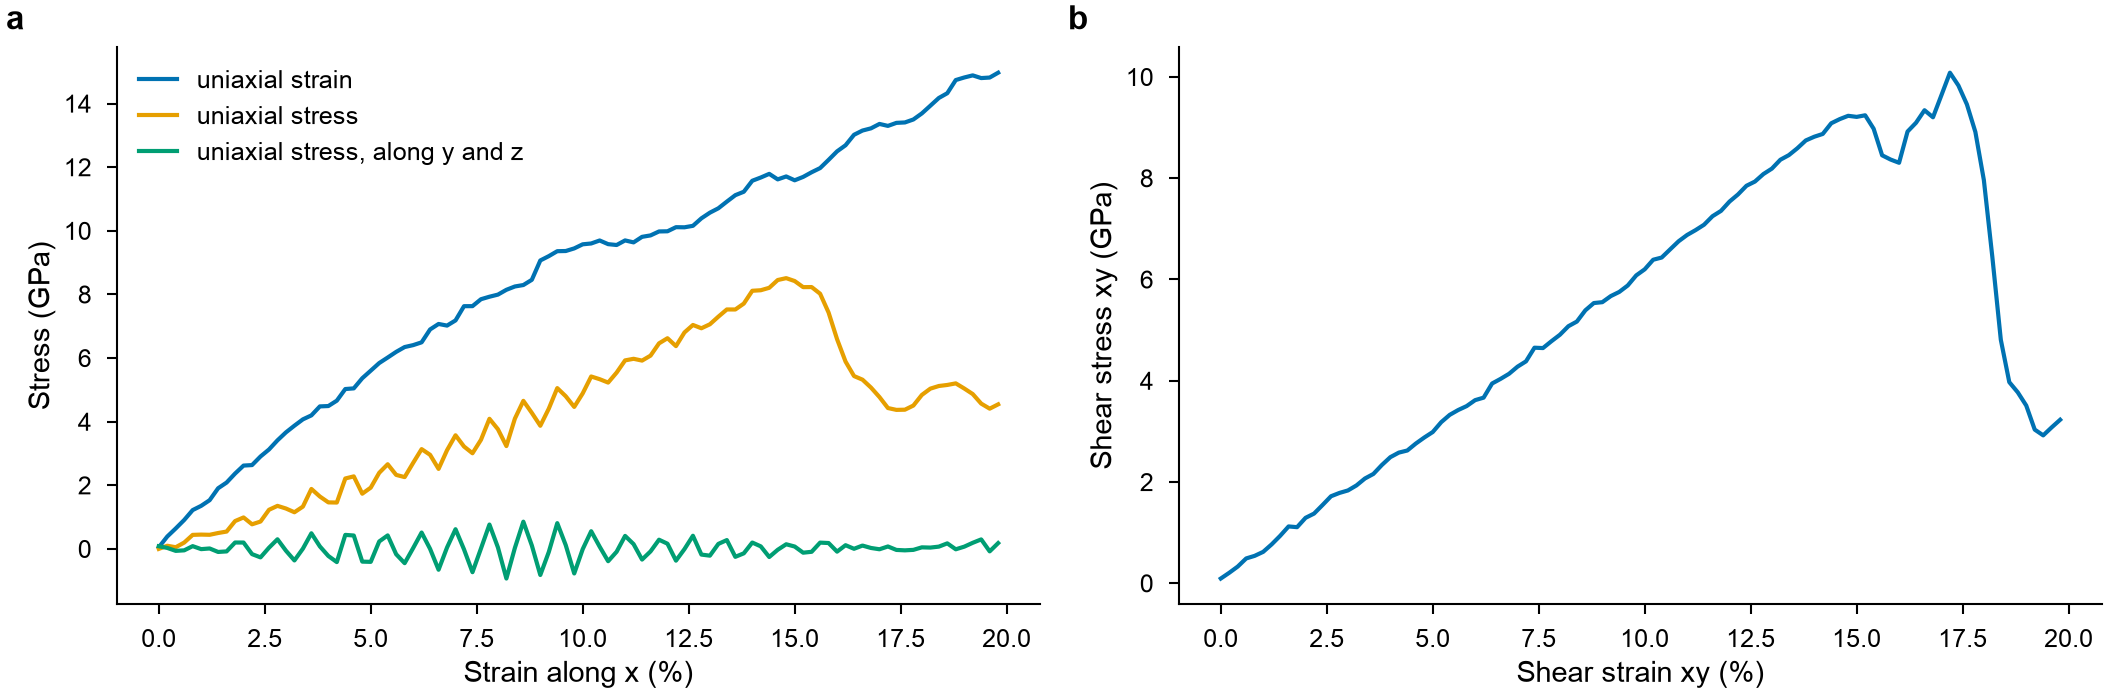
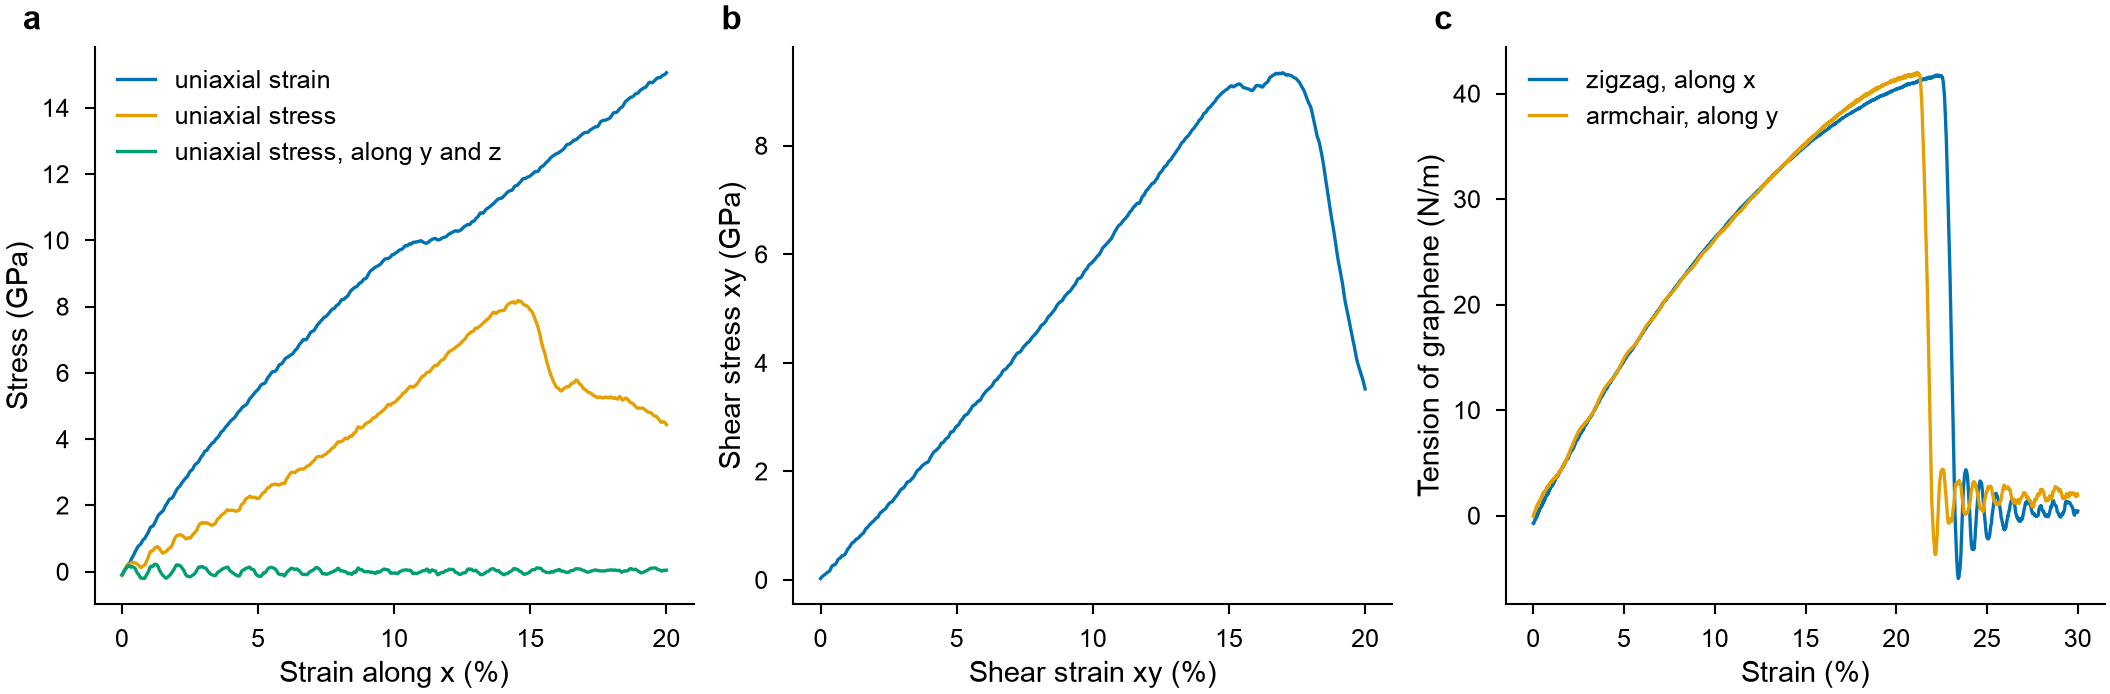
Deformation: copper of 6912 atoms with its raw stresses, and graphene pulled along zigzag and armchair with the NEP model of carbon

diff --git a/docs/user-guide/simulation/deformation.md b/docs/user-guide/simulation/deformation.md
@@ -12,6 +12,7 @@ with its sides held (uniaxial strain), once with them free under zero stress, a
 barostat on y and z (uniaxial stress), and sheared in the xy plane at the same
 rate:
 
+<!-- skip-test -->
 ```python
 import numpy as np
 
@@ -20,7 +21,7 @@ from mdapy.calculators import EAM
 from mdapy.simulation import MolecularDynamics
 from mdapy.simulation.controls import Deform
 
-crystal = build_crystal("fcc", 3.615, elements="Cu", repeat=(6, 6, 6))
+crystal = build_crystal("fcc", 3.615, elements="Cu", repeat=(12, 12, 12))  # 6912 atoms
 copper = EAM.zhou(["Cu"])
 rate = 0.02  # 1/ps
 
@@ -34,59 +35,116 @@ runs = {
     },
     "shear": {"ensemble": "nvt", "controls": Deform(xy=rate)},
 }
+with MolecularDynamics(crystal, copper, timestep=0.002) as md:
+    md.velocities(300, seed=1)
+    md.run(2500, ensemble="npt", temperature=300, pressure=0.0, barostat="aniso")
+    warm = md.system  # at 300 K and no pressure, with its velocities
+
 curves = {}
 for name, options in runs.items():
-    with MolecularDynamics(crystal, copper, timestep=0.002) as md:
-        md.velocities(300, seed=1)
-        md.run(2500, ensemble="npt", temperature=300, pressure=0.0, barostat="aniso")
-        start = len(md.thermo)
-        md.run(5000, temperature=300, thermo=50, **options)
-        pulled = md.thermo[start:]
+    with MolecularDynamics(warm, copper, timestep=0.002) as md:
+        md.run(5000, temperature=300, thermo=10, **options)
+        pulled = md.thermo  # every 10 steps from the start of the run
     time = pulled["time"].to_numpy() - pulled["time"][0]
     curves[name] = (rate * time, np.stack(pulled["stress"].to_numpy()))
+```
+
+Graphene, a sheet, stretched along x, a zigzag direction of its rings, and along
+y, an armchair one, with the other held, at the same rate to 30 %, with the
+[NEP model of carbon](../../examples/graphene-polycrystal.md#the-boundaries-settle)
+of the graphene polycrystal: download [`nep.txt`](../../examples/carbon/nep.txt)
+into the working directory.
+
+<!-- files: ../../examples/carbon -->
+
+<!-- skip-test -->
+```python
+import mdapy
+from mdapy.calculators import NEP
+from mdapy.transform import orthogonal_cell, replicate
+
+carbon = NEP("nep.txt")
+cell = orthogonal_cell(build_crystal("graphene", 2.46, c=20.0, elements="C"))
+sheet = replicate(cell, (20, 12, 1))  # 960 atoms, 4.9 nm by 5.1 nm
+sheet = sheet.with_box(mdapy.Box(sheet.box.matrix, pbc=(True, True, False)))
+with MolecularDynamics(sheet, carbon, timestep=0.0005) as md:
+    md.velocities(300, seed=1)
+    md.run(10000, ensemble="npt", temperature=300, pressure=0.0, barostat="xy")
+    flat = md.system
+
+pulls = {}
+for name, deform in (
+    ("zigzag, along x", Deform(xx=rate)),
+    ("armchair, along y", Deform(yy=rate)),
+):
+    with MolecularDynamics(flat, carbon, timestep=0.0005) as md:
+        md.run(30000, ensemble="nvt", temperature=300, thermo=20, controls=deform)
+        pulled = md.thermo
+    time = pulled["time"].to_numpy() - pulled["time"][0]
+    # the tension of the sheet, in N/m, from the stress over the box with its
+    # vacuum, 20 Å high
+    tension = np.stack(pulled["stress"].to_numpy())[:, :2] * flat.box.matrix[2, 2] / 10
+    pulls[name] = (rate * time, tension)
 ```
 
 The strain is the rate times the time since the run began: each length grows by
 the rate times its length at the start every ps, and the tilt xy by the rate
 times the length along y. `stress` of `thermo` is in the order xx, yy, zz, yz,
-xz, xy, positive under tension:
+xz, xy, positive under tension; that of a sheet is over the volume of its box,
+[as LAMMPS has it](../properties/sheets.md#molecular-dynamics). Every point is the
+stress at one step, every 10 steps for copper and 20 for graphene:
 
+<!-- skip-test -->
 ```python
 from mdapy.visualization import plot
 
 with plot.style():
-    fig, (a, b) = plot.figure("double", 60, nrows=1, ncols=2)
+    fig, (a, b, c) = plot.figure("double", 60, nrows=1, ncols=3)
     for name in ("uniaxial strain", "uniaxial stress"):
         strain, stress = curves[name]
-        a.plot(strain * 100, stress[:, 0], label=name)
+        a.plot(strain * 100, stress[:, 0], label=name, lw=0.8)
     strain, stress = curves["uniaxial stress"]
     a.plot(
         strain * 100,
         stress[:, 1:3].mean(axis=1),
         label="uniaxial stress, along y and z",
+        lw=0.8,
     )
     a.set(xlabel="Strain along x (%)", ylabel="Stress (GPa)")
     a.legend()
     strain, stress = curves["shear"]
-    b.plot(strain * 100, stress[:, 5])
+    b.plot(strain * 100, stress[:, 5], lw=0.8)
     b.set(xlabel="Shear strain xy (%)", ylabel="Shear stress xy (GPa)")
-    for ax, label in zip((a, b), "ab"):
+    for (name, (strain, tension)), k in zip(pulls.items(), (0, 1)):
+        c.plot(strain * 100, tension[:, k], label=name, lw=0.8)
+    c.set(xlabel="Strain (%)", ylabel="Tension of graphene (N/m)")
+    c.legend()
+    for ax, label in zip((a, b, c), "abc"):
         plot.panel_label(ax, label)
     plot.save(fig, "images/deformation", formats=("png",))
 ```
 
-![Stress against strain of copper stretched along x with its sides held or free, and sheared in the xy plane](images/deformation.png)
+![Stress against strain of copper stretched along x with its sides held or free and sheared in the xy plane, and of graphene stretched along a zigzag and an armchair direction](images/deformation.png)
 
-*a: With its sides held, the stress along x rises by about 130 GPa per unit
-strain over the first percent, below C11 = 168.6 GPa of this potential at 0 K,
-as heat and the strain soften the crystal; the sides pull too, 13.5 GPa at
-20 %, and the crystal holds to the end. With its sides free, the stress rises by
-about 50 GPa per unit strain, against the Young's modulus along [100] of
-66.7 GPa at 0 K, to 8.5 GPa near 15 %, where the crystal gives way; the stresses
-along y and z stay at zero but for the vibrations of the atoms and the box.
-b: The shear stress rises by about 55 GPa per unit strain, below C44 = 75.4 GPa
-at 0 K, to 10 GPa near 17 %, where the crystal gives way. Each point is the
-stress at one step.*
+*a: With its sides held, the stress along x rises by 134 GPa per unit strain over
+the first percent, against C11 = 137 GPa of this potential at 300 K from
+[elastic constants from molecular dynamics](../properties/md-elastic.md) (169 GPa
+at 0 K: the vibrations of the atoms soften copper with this potential by a fifth),
+and less as the strain grows, to 15 GPa at 20 %. With its sides free, the stress rises by 45 GPa per unit strain
+over the first 2 %, once the barostat has let the sides in, against the Young's
+modulus along [100] of 46.5 GPa at 300 K, to 8.2 GPa at 14.6 %, where the crystal
+gives way; the stresses along y and z swing about zero as the barostat sets in.
+b: The shear stress rises by 54 GPa per unit strain, C44 = 55 GPa at 300 K, to
+9.3 GPa at 17 %, where the crystal gives way. c: Graphene pulled along its two
+directions: the curves fall on each other to 15 %, as the elastic response of a
+hexagonal sheet is the same in every direction of its plane, and part at larger
+strains. The sheet breaks at 42.0 N/m and 21.1 % along the armchair direction and at
+41.7 N/m and 22.2 % along the zigzag one; the tension then rings about zero.*
+
+The runs take about 3 minutes for copper and 2 for graphene on 8 cores. The rate,
+2 % of the length every ps or 2 × 10¹⁰ per second, is one of molecular dynamics,
+billions of times that of a test in a laboratory: the elastic part of the curves
+does not depend on it, the stress where the crystal gives way does.
 
 ## Parameters
 
